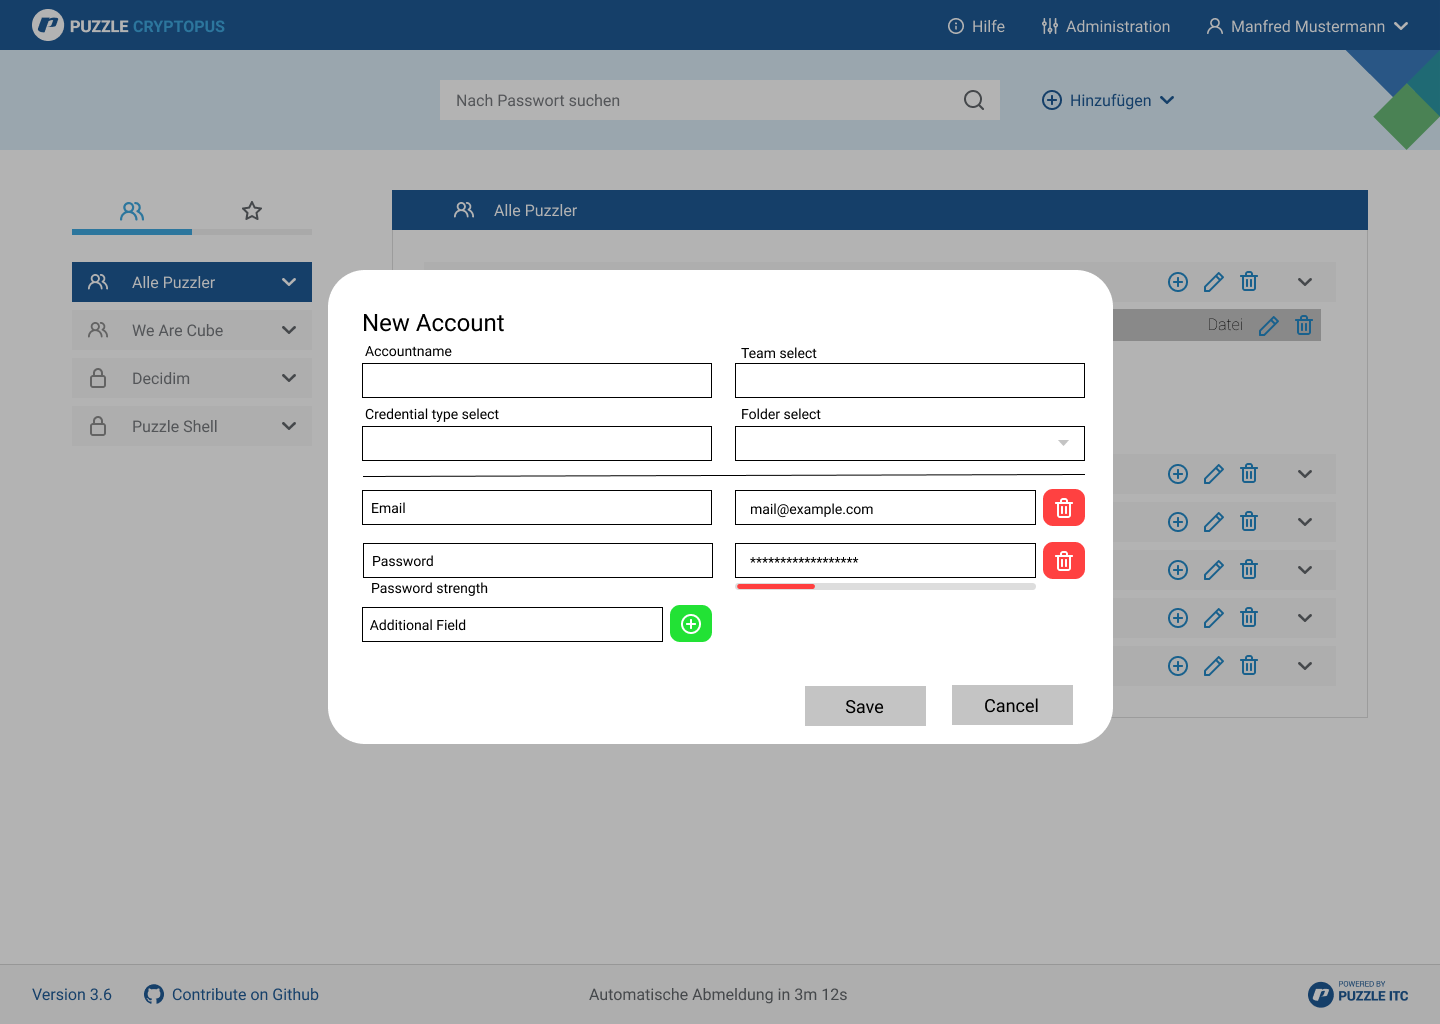
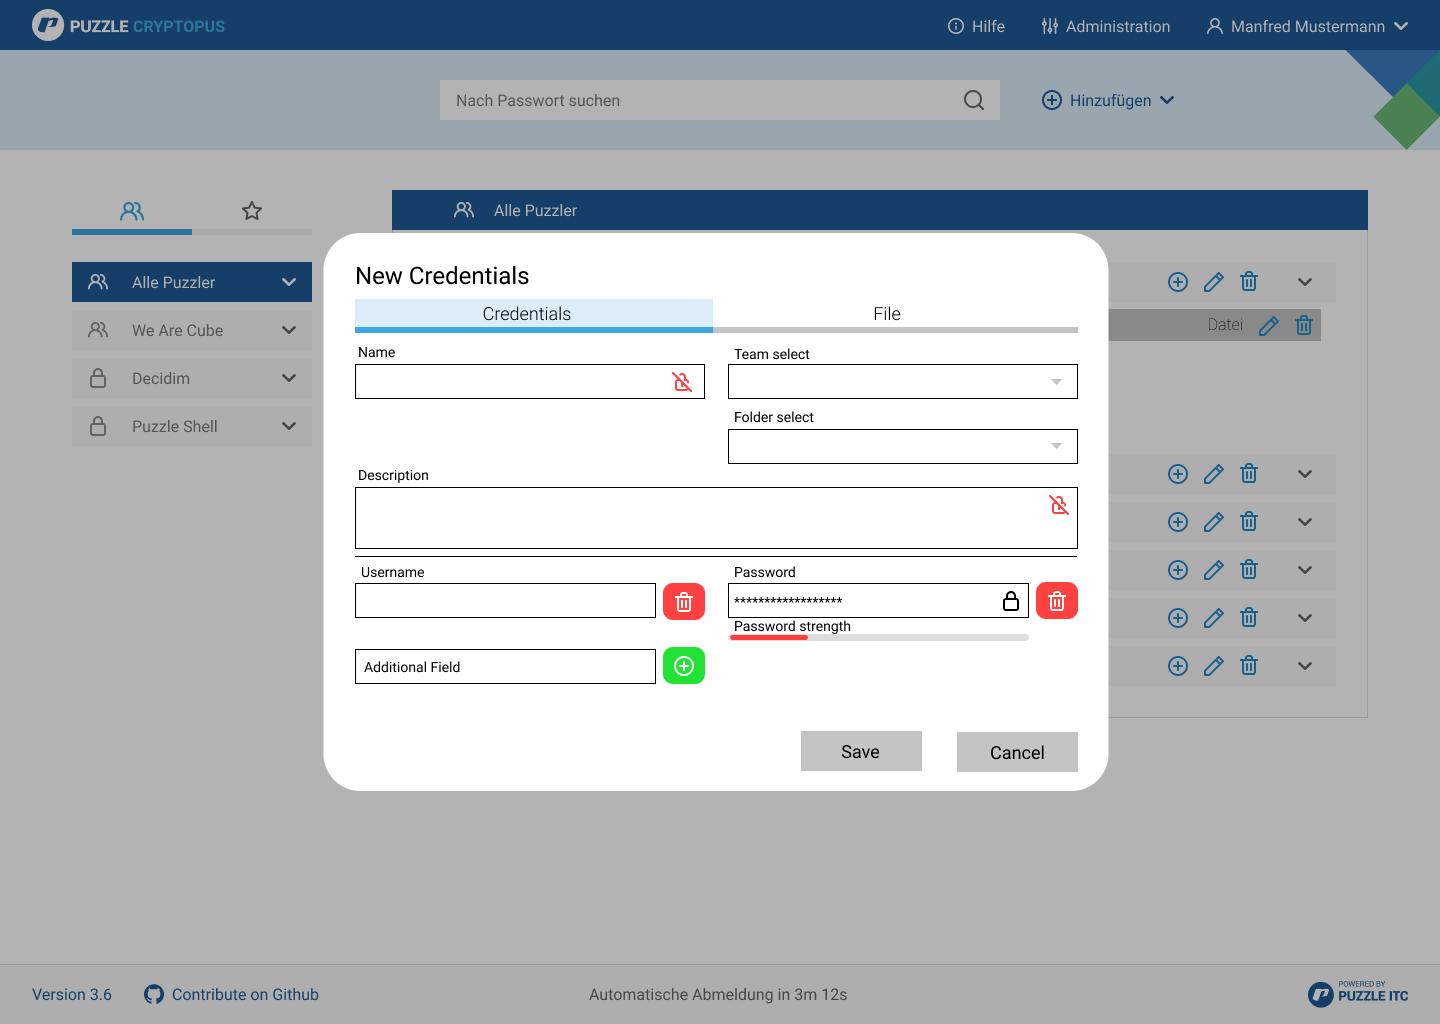
Konzept aktualisiert

Changed region(s): [[0.2188, 0.2188, 0.7812, 0.7812]]

diff --git a/1_konzeption/1.2_ui_changes.md b/1_konzeption/1.2_ui_changes.md
@@ -6,14 +6,14 @@ Durch die Änderungen welche im Backend bezüglich der encryptables vorgenommen 
 ## Anpassungen
 
 ### Listenansicht
-Damit man im UI die neuen Encryptables erstellen kann, befindet sich auf dem (+) Button neu ein Dropdown mit den verschiedenen encryptables Typen. Möchte man nun ein neues erstellen, klickt man einfach auf den gewünschten Typ und das Fenster zum erstellen eines neuen encryptable öffnet sich. In einer Listenansicht werden alle encryptables zum dazugehörigen Ordner aufgelistet. Dies wird ähnlich der aktuellen Account ansicht gemacht. Dabei hat man zugriff auf die gespeicherten Daten, welche man einfach per klick aufdecken und kopieren kann, so wie dies aktuell umgesetzt ist. Zusätzlich wird neu im Header des Teams die verwendete Verschlüsselung angezeigt.
+Damit man im UI die neuen Encryptables erstellen kann, verwendet man wie bisher den (+) Button und das Fenster zum erstellen eines neuen encryptable öffnet sich. In einer Listenansicht werden alle encryptables zum dazugehörigen Ordner aufgelistet. Dies wird ähnlich der aktuellen Account ansicht gemacht. Dabei hat man zugriff auf die gespeicherten Daten, welche man einfach per klick aufdecken und kopieren kann, so wie dies aktuell umgesetzt ist. Zusätzlich wird neu im Header des Teams die verwendete Verschlüsselung angezeigt.
 
 ![Listview](_files/_mockups/encryptables_listview.png)
 
 _Listenansicht mit neuem Dropdown_
 
 ### Neu erstellen
-Damit man die Daten zum dazugehörigen encryptable eingeben kann, wird ein neues Fenster geöffnet. In diesem kann man die einzelnen Werte dem encryptable zuweisen. Im falle des Accounts, hat man neu zusätzlich die Option, Email und Passwort sowie max. Vier weitere Angaben zum Account verschlüsselt abzuspeichern. Dies kann nach bedarf beispielsweise der Benutzername des zu speichernden Accounts sein. Per click auf den Eimer oder auf das Plus, werden weitere Felder gelöscht, oder hinzugefügt.
+Damit man die Daten zum dazugehörigen encryptable eingeben kann, wird ein neues Fenster geöffnet. In diesem kann man die einzelnen Werte dem encryptable zuweisen. Im falle des Credentials, hat man neu zusätzlich die Option, Email und Passwort sowie max. Vier weitere Angaben zum Account verschlüsselt abzuspeichern. Dies kann nach bedarf beispielsweise der Benutzername des zu speichernden Credentials sein. Per click auf den Eimer oder auf das Plus, werden weitere Felder gelöscht, oder hinzugefügt.
 
 ![Listview](_files/_mockups/encryptables_create.png)
 
@@ -21,6 +21,8 @@ _Erstellen eines Accounts_
 
 ### Einzelansicht
 Damit man ein einzelnes Encryptable genauer anschauen kann, wird eine einzelansicht verwendet. Diese gibt einblick in den verwendeten Encryptable Typ, die verschlüsselten Werte, die Beschreibung und der Name.
+
 ![Listview](_files/_mockups/encryptables_preview.png)
 
 _Erstellen eines Accounts_
+

diff --git a/1_konzeption/1.6_encryption.md b/1_konzeption/1.6_encryption.md
@@ -18,7 +18,7 @@ Im UI soll es möglich sein, die verschlüsselung des Teams anzupassen und gegen
 4. Benutzer erhält info, dass sein Team mit neuer Verschlüsselung verschlüsselt wurde.
 
 #### Recrypt Controller
---> TODO
+Der `Api::Teams::RecryptController` wird verwendet damit Teams auf einen anderen Verschlüsselungs Algorithmus wechseln können. Konkret wird dieser aufgerufen sobald aus dem UI die Verschlüsselung eines Teams angepasst wird ([Hier ersichtlich](1.2_ui_changes.md#listenansicht)). Sobald dies geschieht, werden alle Encryptables welche sich in diesem Team befinden, mit dem neuen Algorithmus verschlüsselt. Die Encryptables werden mithilfe der Encryption Struktur, auf die entsprechende Verschlüsselung recrypted.
 
 ## Encryption Struktur
 ![Listview](_diagrams/encryption.png)

diff --git a/1_konzeption/1.3_api.md b/1_konzeption/1.3_api.md
@@ -11,8 +11,6 @@ Die API muss trotz den neuen Änderungen immernoch alte Aufrufe entgegennehmen u
 
 ## Daten 
 
-### Encryptable Bearbeiten
-
 #### Aktuell
 
 Wird zurzeit ein Account bearbeitet wird ein JSON der folgenden struktur an die API gesendet:
